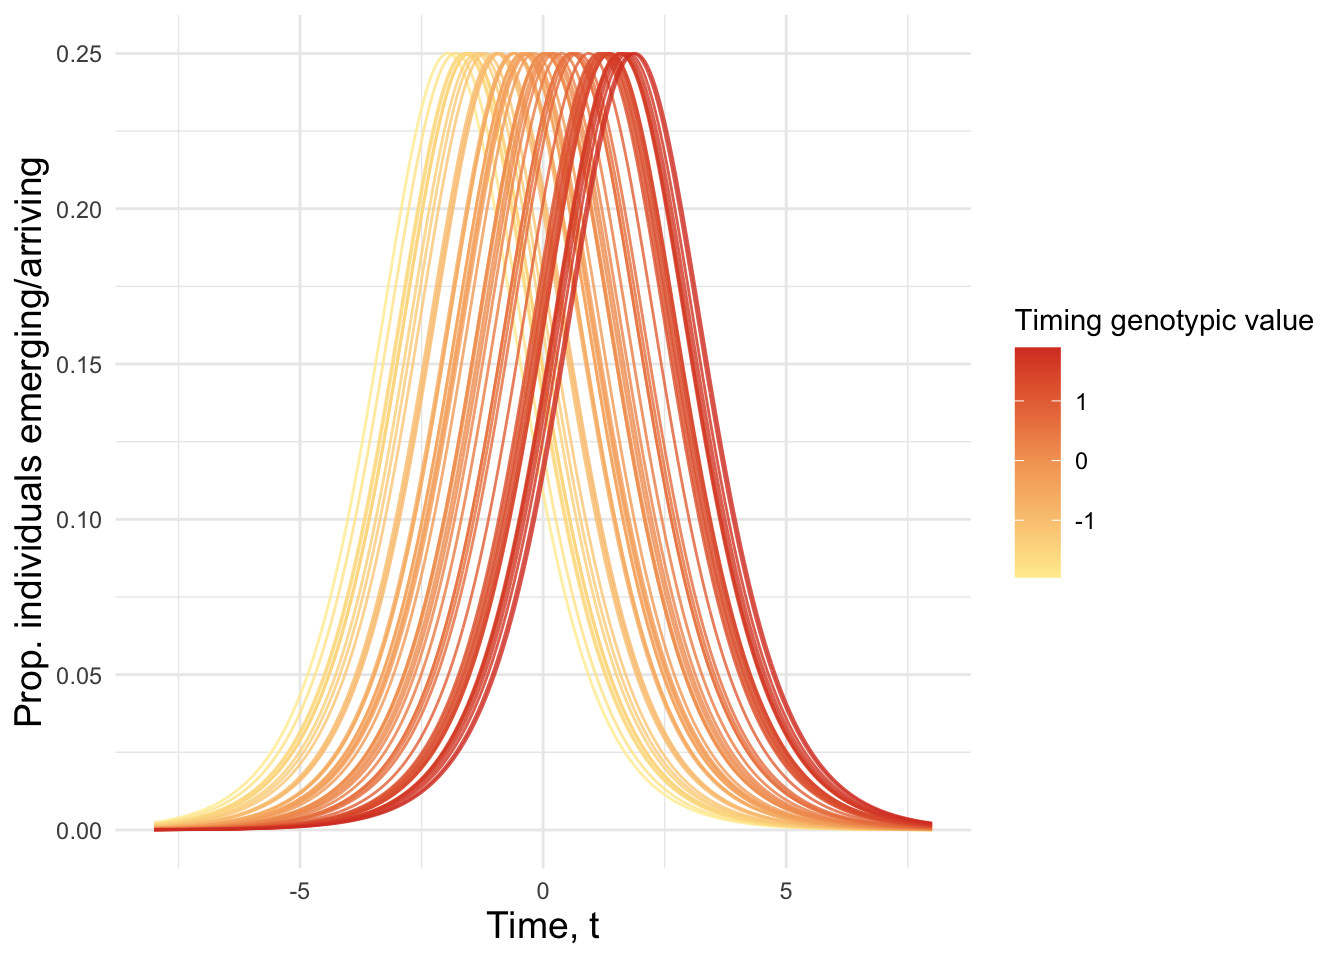
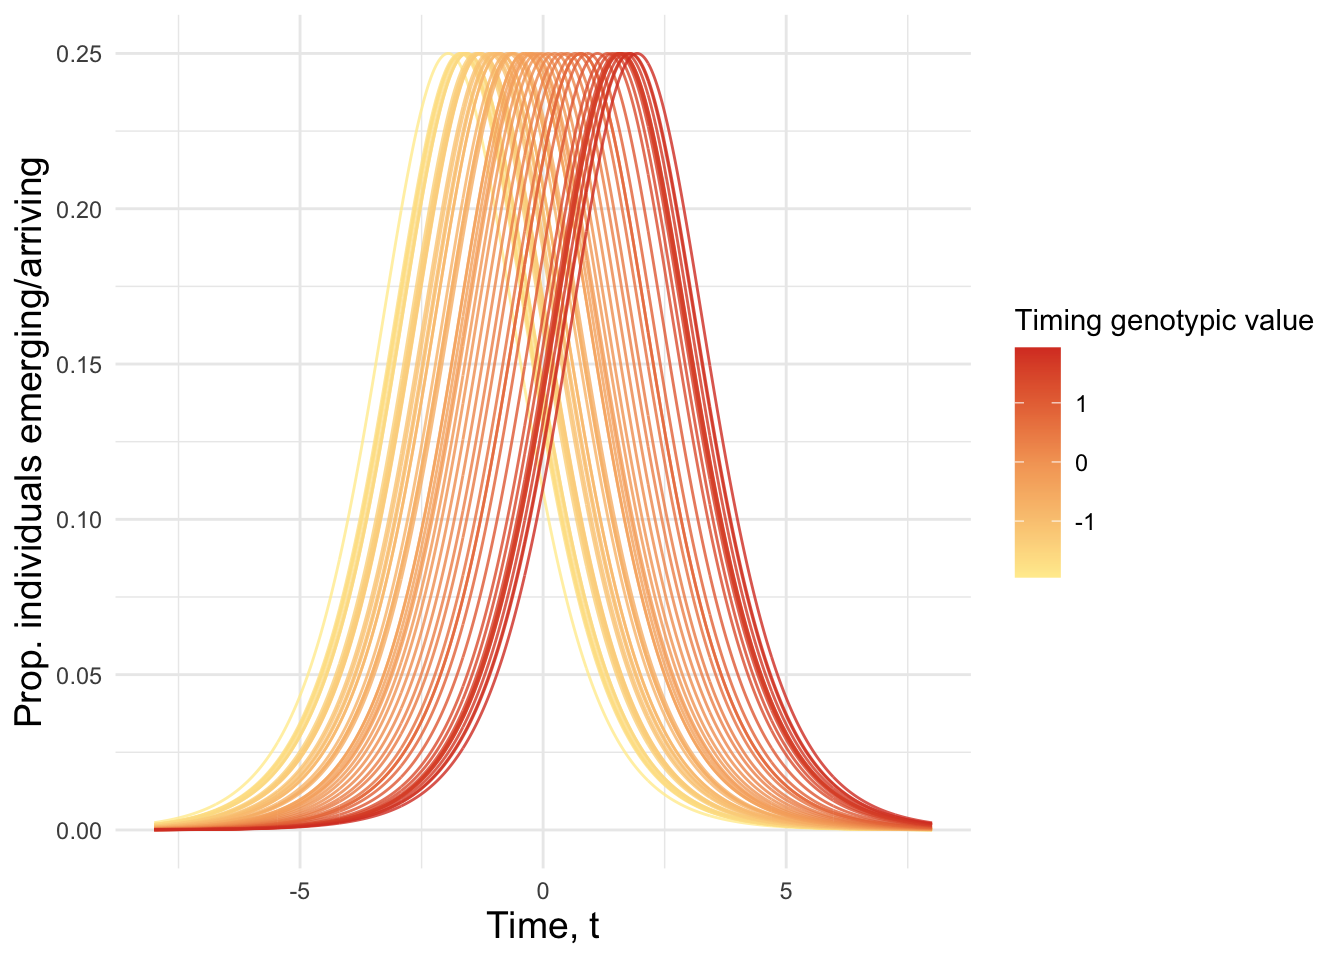
nearly there

Changed region(s): [[0.1562, 0.0312, 0.6562, 0.875], [0.7812, 0.4688, 0.8125, 0.5]]

diff --git a/docs/numeric_model.html b/docs/numeric_model.html
@@ -303,7 +303,9 @@ window.Quarto = {
 
 # Load required libraries
 library(shiny)
-library(tidyverse)
+library(dplyr)
+library(ggplot2)
+library(MoMAColors)
 
 # Define the UI
 ui &lt;- fluidPage(
